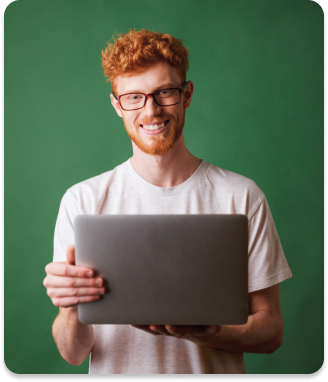
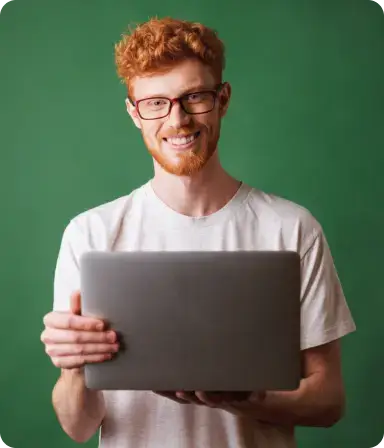
Finish about-me

Changed region(s): [[0.0, 0.0, 1.0, 1.0]]

diff --git a/src/partials/about-me.html b/src/partials/about-me.html
@@ -2,7 +2,37 @@
   <div class="container">
     <h2 class="title about__title">About <span class="accent">me</span></h2>
     <div class="about__bio">
-      <img src="./img/about-me/about.webp" alt="me" class="about__img" />
+      <!-- <img src="./img/about-me/about-mobile.webp" alt="me" class="about__img" /> -->
+      <picture class="about__img">
+        <!-- Desktop screen -->
+        <source
+          media="(min-width: 1280px)"
+          srcset="./img/about-me/about.webp 1x, ./img/about-me/about@2x.webp 2x"
+          type="image/webp"
+        />
+
+        <!-- Tablet screen -->
+        <source
+          media="(min-width: 768px)"
+          srcset="
+            ./img/about-me/about-tablet.webp    1x,
+            ./img/about-me/about-tablet@2x.webp 2x
+          "
+          type="image/webp"
+        />
+
+        <!-- Mobile screen -->
+
+        <source
+          media="(max-width: 767px)"
+          srcset="
+            ./img/about-me/about-mobile.webp    1x,
+            ./img/about-me/about-mobile@2x.webp 2x
+          "
+          type="image/webp"
+        />
+        <img src="./img/about-me/about.webp" alt="s" loading="lazy" />
+      </picture>
       <div class="about__descr">
         <h3 class="about__subtitle">BIO</h3>
         <p class="about__text">

diff --git a/src/css/about-me.css b/src/css/about-me.css
@@ -54,7 +54,7 @@
   border-radius: 1px;
   background-color: var(--accent-color);
   left: 10px;
-  top: 4px;
+  top: 8px;
 }
 
 @media screen and (min-width: 768px) {
@@ -66,6 +66,7 @@
 
   .about__img {
     height: 392px;
+    width: 336px;
     align-self: flex-end;
   }
 
